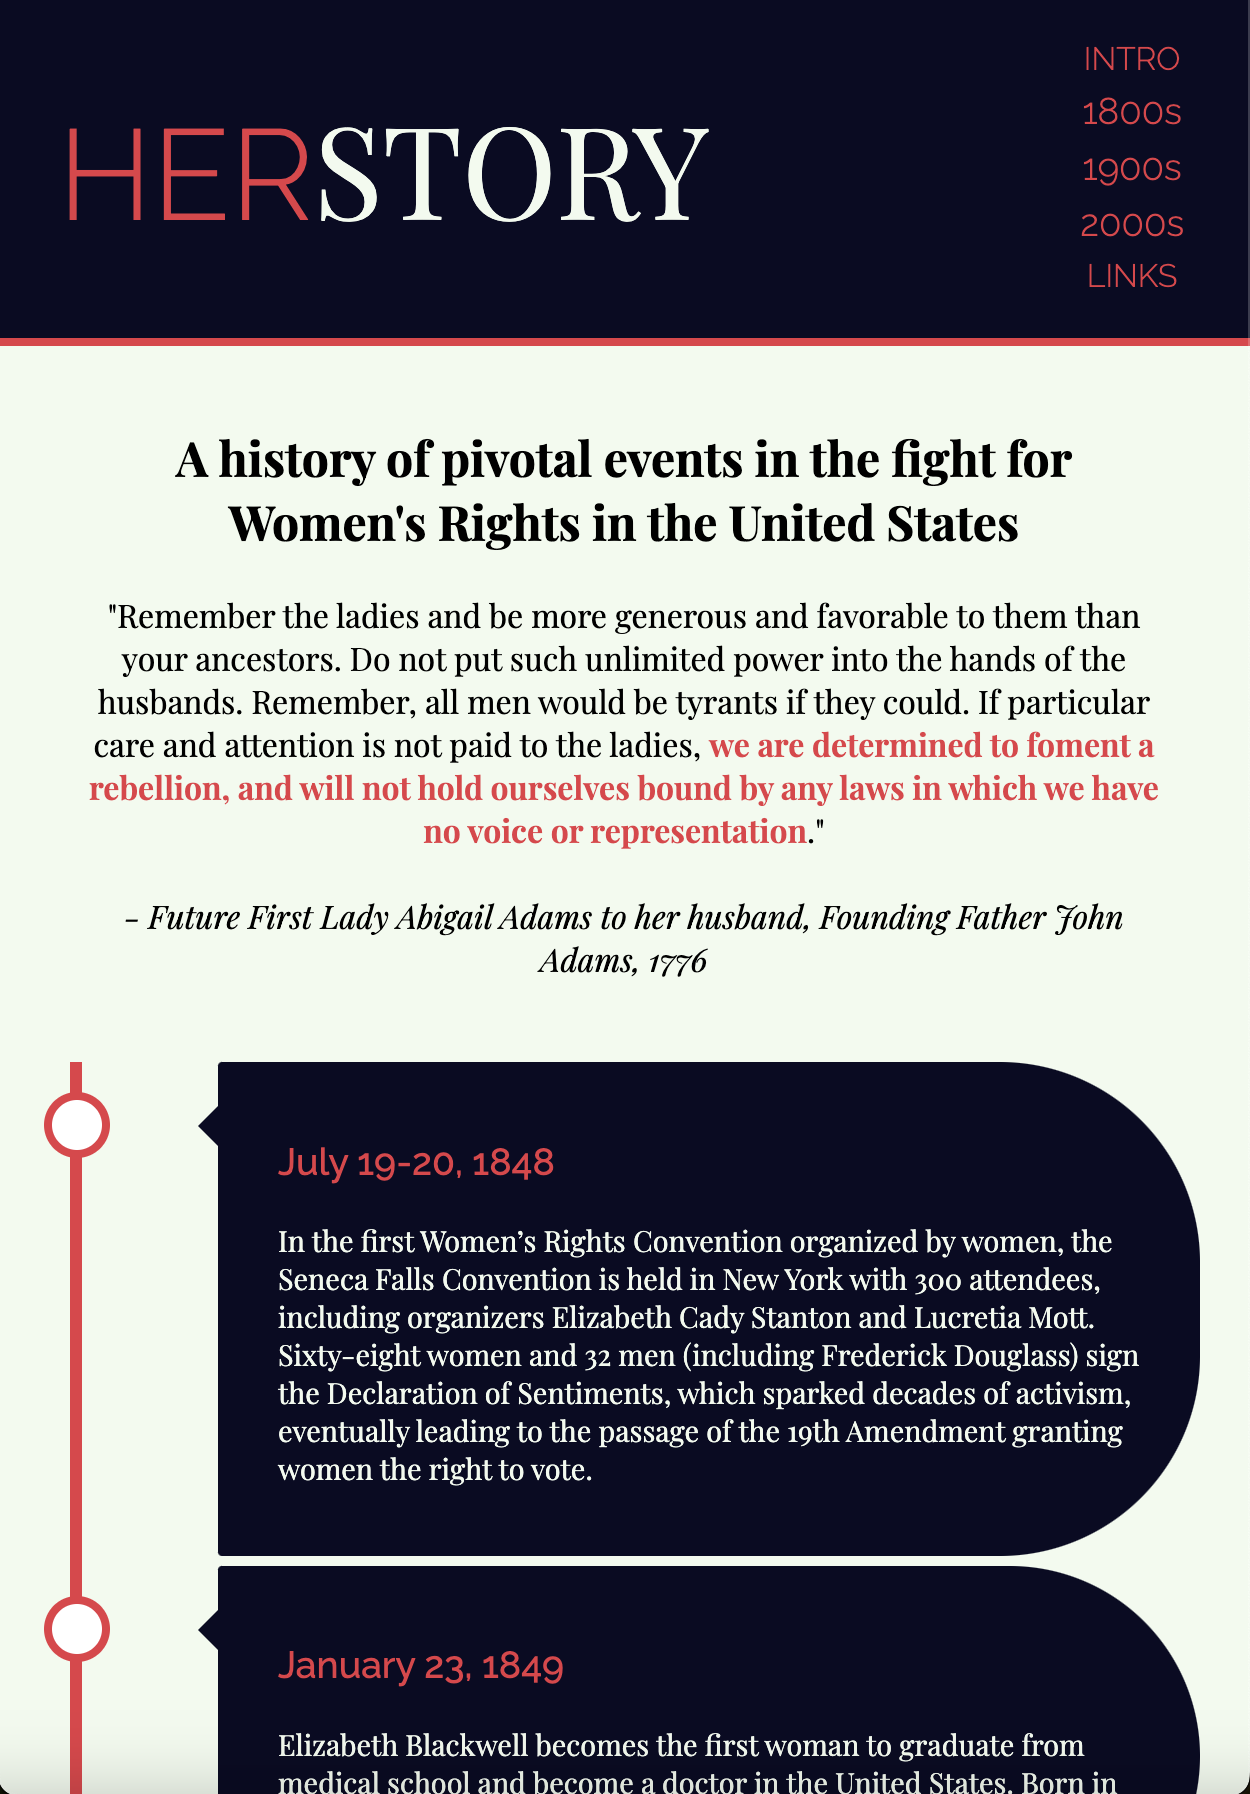
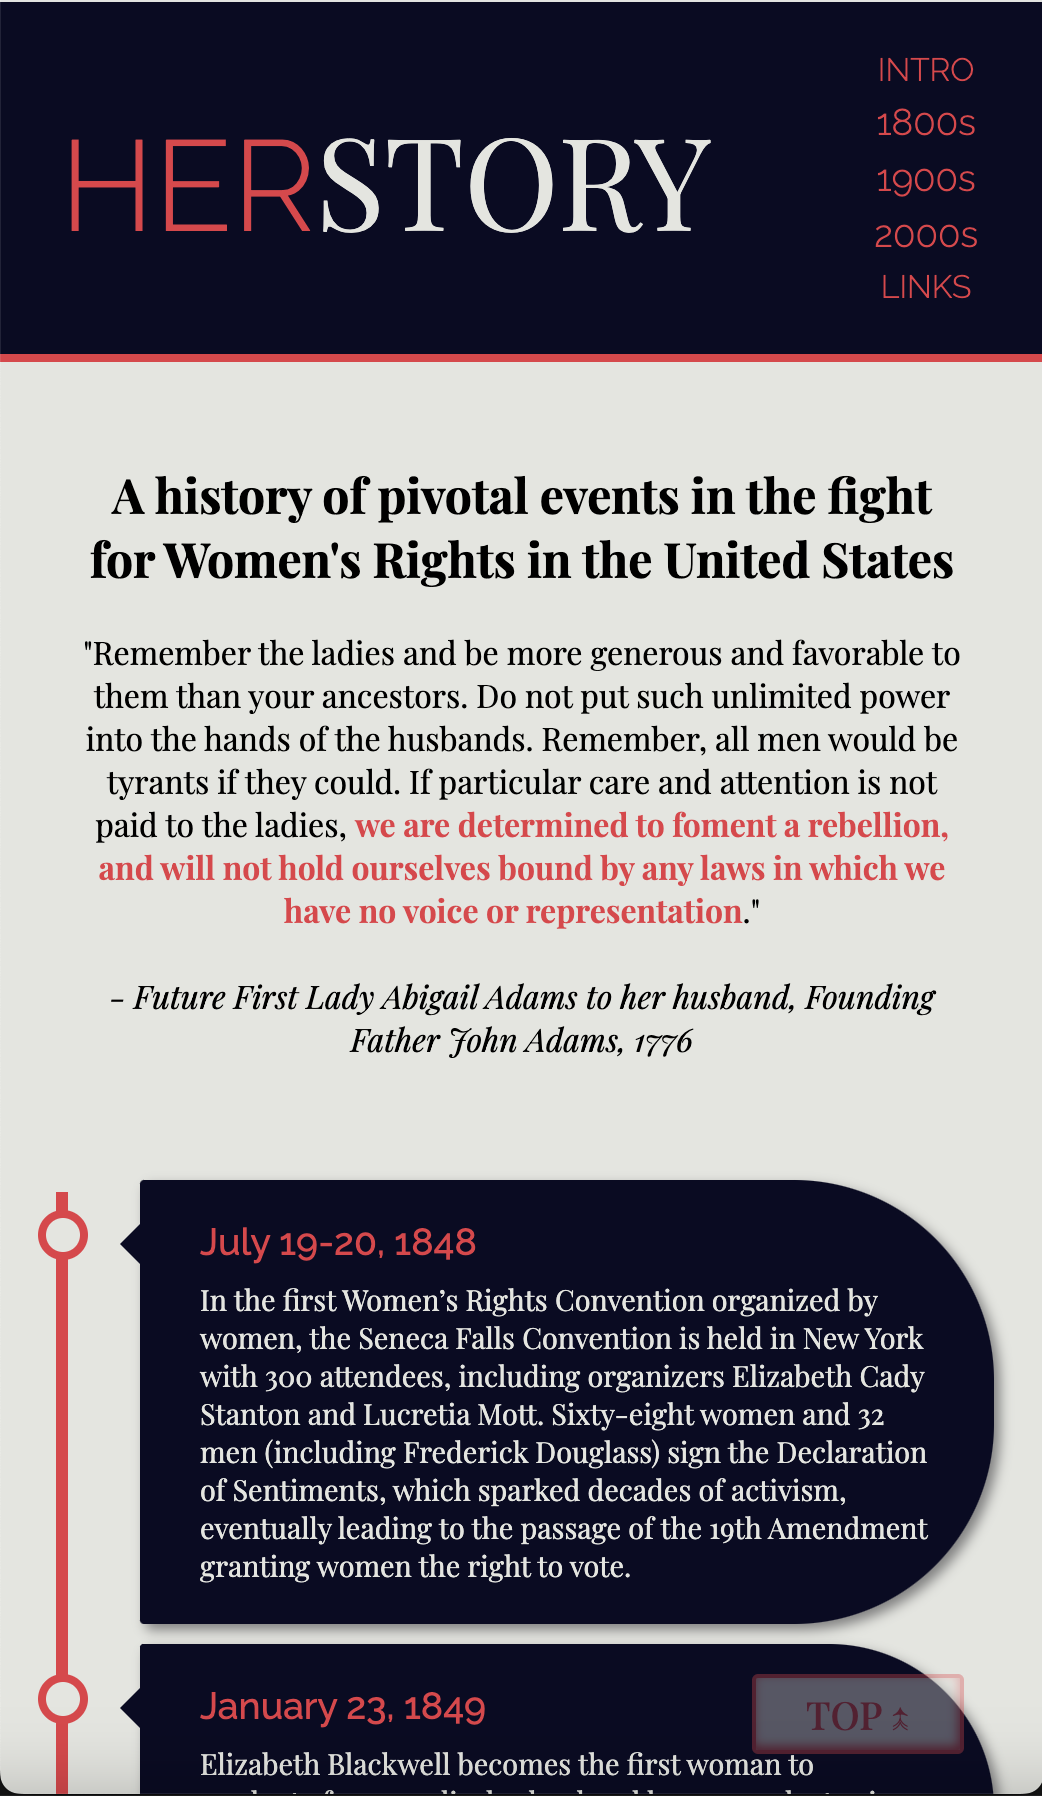
Update background color and readme preview

diff --git a/assets/css/styles.css b/assets/css/styles.css
@@ -10,7 +10,7 @@
 :root {
     --pink: #e63946;
     --dark-blue: #0a0a23;
-    --vintage-white: #f1faee;
+    --vintage-white: #e4e5df;
 }
 
 body {
@@ -108,13 +108,13 @@ a {
 }
 
 nav ul li:hover {
-    font-size: 120%;
-    transition: 0.3s ease-in-out;
+    font-size: 110%;
+    transition: 0.3s ease-in;
 }
 
 .number-size:hover {
-    font-size: 120%;
-    transition: 0.3s ease-in-out;
+    font-size: 115%;
+    transition: 0.3s ease-in;
 }
 
 footer {
@@ -167,7 +167,7 @@ footer ul li:hover {
     top: 0;
     bottom: 0;
     left: 31px;
-    margin-left: -3px;
+    margin: 6px 0 -40px -3px;
 }
 
 /* Container around content */
@@ -225,7 +225,7 @@ footer ul li:hover {
 /* Back to top button */
 .top-button {
     position: fixed;
-    bottom: 30px;
+    bottom: 20px;
     right: 40px;
     font-family: "Playfair Display", serif;
     font-weight: 500;
@@ -243,6 +243,10 @@ footer ul li:hover {
 
 .top-button:hover {
     filter: opacity(80%);
+}
+
+.top-button:active {
+    transform: scale(0.9);
 }
 
 /* -- MEDIA QUERIES -- */
@@ -264,6 +268,7 @@ footer ul li:hover {
     /* Position ruler to middle of page */
     .timeline::after {
         left: 50%;
+        margin-bottom: 0;
       }
 
     .container {

diff --git a/README.md b/README.md
@@ -14,7 +14,7 @@ https://christinabohn.github.io/herstory-tribute/
 
 ## Preview
 
-![herstory-preview](assets/images/herstory-preview.png)
+![herstory preview](assets/images/herstory-preview.png)
 
 ## Thank You
 For taking the time to check out my page!
